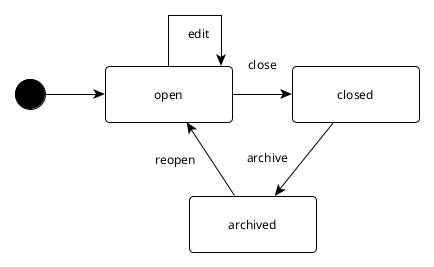
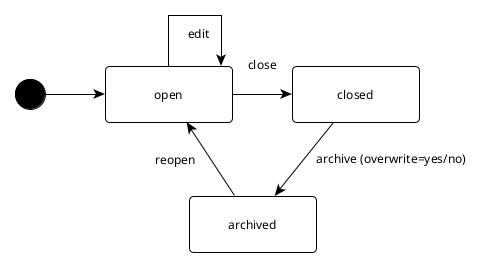
updated docs

diff --git a/src/main/java/nl/knaw/dans/layerstore/StagingDir.java b/src/main/java/nl/knaw/dans/layerstore/StagingDir.java
@@ -29,8 +29,8 @@ import java.util.regex.Pattern;
  */
 public class StagingDir {
     /**
-     * Pattern for valid layer names. Layer names are Unix timestamps with the optional suffix '.closed' or '.partial', for closed or partially archived layers.
-     * Current timestamps have 13 digits. After November 2286, timestamps will have 14 digits.
+     * Pattern for valid layer names. Layer names are Unix timestamps with the optional suffix '.closed' or '.partial', for closed or partially archived layers. Current timestamps have 13 digits.
+     * After November 2286, timestamps will have 14 digits.
      */
     private static final Pattern validLayerNamePattern = Pattern.compile("^\\d{13,}(\\.(closed|partial))?$");
 
@@ -87,9 +87,12 @@ public class StagingDir {
         Path partialPath = path.resolveSibling(id + ".partial");
 
         int existsCount = 0;
-        if (Files.exists(openPath)) existsCount++;
-        if (Files.exists(closedPath)) existsCount++;
-        if (Files.exists(partialPath)) existsCount++;
+        if (Files.exists(openPath))
+            existsCount++;
+        if (Files.exists(closedPath))
+            existsCount++;
+        if (Files.exists(partialPath))
+            existsCount++;
 
         if (existsCount > 1) {
             throw new IllegalArgumentException("Layer " + id + " has multiple staging directories");
@@ -156,4 +159,12 @@ public class StagingDir {
         return Files.exists(path);
     }
 
+    public void delete() throws IOException {
+        if (isClosed()) {
+            Files.delete(path);
+        }
+        else {
+            throw new IllegalStateException("Layer is open, cannot delete");
+        }
+    }
 }

diff --git a/src/main/java/nl/knaw/dans/layerstore/LayerImpl.java b/src/main/java/nl/knaw/dans/layerstore/LayerImpl.java
@@ -37,7 +37,6 @@ class LayerImpl implements Layer {
     @NonNull
     private final StagingDir stagingDir;
 
-
     @NonNull
     private final Archive archive;
 

diff --git a/docs/index.md b/docs/index.md
@@ -86,33 +86,36 @@ through the [dans-ocfl-java-extensions-lib].
 
 The layer store is backed by a database. The purpose is to make operations that would otherwise be slow much faster. For example, listing the contents of a
 folder in a layer store with many layers would require reading all layers. Depending on the type of archive, it could also mean reading all archive files. If
-layer archives were stored on a very slow medium, such as tape, the problem would be compounded.
+layer archives were stored in a very slow medium, such as tape, the problem would be compounded.
 
-To solve this problem the layer database stores a record for each item in each layer. The record contains the item's path, and type. If it is a file the record
+To solve this problem, the layer database stores a record for each item in each layer. The record contains the item's path and type. If it is a file, the record
 may also contain the entire content of the file. For which files the content is stored is configurable. Obviously, storing the content of all files would be
 very expensive in terms of storage space, so it is recommended to only store the content of files that are expected to be relatively small and need to be read
 often.
 
 ## Layer states
 
+![state-diagram-layers](img/state-diagram-layers.png)
+
 A layer is always on one of three states:
 
-* OPEN – this means it can be written to. It is the initial state of a layer. The files in the layer have been staged to fast storage.
-* CLOSED – this means it cannot be written to. A layer must be closed before it can be archived. Closing a layer is a fast operation, but archiving can take a
+* **OPEN** – this means it can be written to. It is the initial state of a layer. The files in the layer have been staged to fast storage.
+* **CLOSED** – this means it cannot be written to. A layer must be closed before it can be archived. Closing a layer is a fast operation, but archiving can take
+  a
   long time, depending on the size of the layer.
-* ARCHIVED – this means the layer has been written to an archive file and the staged files have been deleted.
+* **ARCHIVED** – this means the layer has been written to an archive file and the staged files have been deleted.
 
 The transitions between these states are as follows:
 
-* close - OPEN -> CLOSED. This is an instantaneous operation. The files are still staged on fast storage after closing, but the layer can no longer be changed.
-* archive - CLOSED -> ARCHIVED. This is potentially a slow operation, as it involves writing the layer to an archive file and deleting the staged files. The
-  archive transition takes a boolean argument, `overwrite`, which determines whether to overwrite an existing archive file if it exists. If `overwrite` is
-  `false`, an error is thrown if the archive file already exists. If it is true, the existing archive is only deleted after the new archive is fully written.
-* reopen - ARCHIVED -> OPEN. This is potentially a slow operation, as it involves reading the archive file and staging the files to fast storage again. The
-  archive is **not** deleted after reopening. If the open layer is subsequently edited, closed and archived again, the client should pass `overwrite=true` to
-  make sure the updates are reflected in the archive file.
-
-![state-diagram-layers](img/state-diagram-layers.png)
+* **close** (transition: OPEN -> CLOSED). This is an instantaneous operation. The files are still staged on fast storage after closing, but the layer can no
+  longer be changed.
+* **archive** (transition: CLOSED -> ARCHIVED). This is potentially a slow operation, as it involves writing the layer to an archive file and deleting the
+  staged files. The archive transition takes a boolean argument, `overwrite`, which determines whether to overwrite an existing archive file if it exists. If
+  `overwrite` is   `false`, an error is thrown if the archive file already exists. If it is true, the existing archive is only deleted after the new archive is
+  fully written.
+* **reopen** (transition: ARCHIVED -> OPEN). This is potentially a slow operation, as it involves reading the archive file and staging the files to fast storage
+  again. The archive is **not** deleted after reopening. If the open layer is subsequently edited, closed and archived again, the client should pass
+  `overwrite= true` to make sure the updates are reflected in the archive file.
 
 [OCFL]: https://ocfl.io/
 
